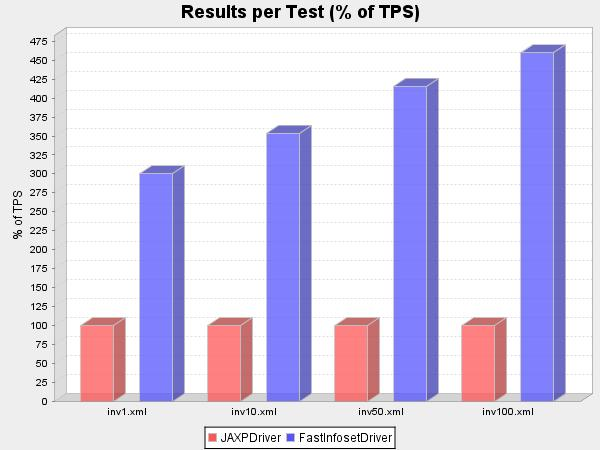
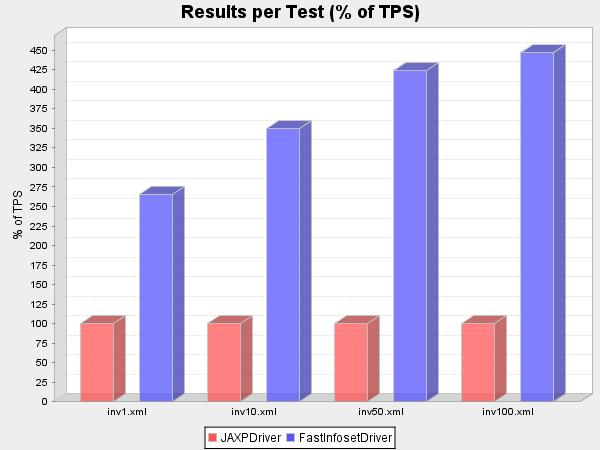
Updated sample.

diff --git a/www/sample/report.html b/www/sample/report.html
@@ -1,4 +1,4 @@
-<?xml version="1.0" encoding="UTF-8"?><html xmlns="http://www.w3.org/1999/xhtml" xmlns:extrep="http://www.sun.com/japex/extendedTestSuiteReport" xmlns:rep="http://www.sun.com/japex/testSuiteReport"><link href="report.css" type="text/css" rel="stylesheet"/><head><h1>Japex Report: ParsingPerformance</h1></head><body><ul><li>chartType: barchart</li><li>classPath: ../../dist/lib/*.jar</li><li>configFile: parsing-config.xml/</li><li>dateTime: 22 Dec 2005/11:01:15 EST</li><li>includeWarmupRun: false</li><li>numberOfThreads: 1</li><li>osArchitecture: x86</li><li>osName: SunOS</li><li>reportsDirectory: reports</li><li>resultAxis: normal</li><li>resultAxisX: normal</li><li>resultUnit: TPS</li><li>resultUnitX: kbs</li><li>runsPerDriver: 1</li><li>runTime: 10</li><li>version: 0.100</li><li>vmInfo: Sun Microsystems Inc. 1.5.0_05-b05</li><li>warmupTime: 10</li></ul><h2>Result Summary 
-    (TPS)</h2><table width="80%" border="1"><thead><tr><th width="15%"><b>driver</b></th><th><b>resultAritMean</b></th><th><b>resultHarmMean</b></th><th><b>resultGeomMean</b></th><th><b>driverClass</b></th><th><b>description</b></th></tr></thead><tbody><tr><td align="right">JAXPDriver</td><td align="right"><nobr>1183.321</nobr></td><td align="right"><nobr>486.336</nobr></td><td align="right"><nobr>756.276</nobr></td><td align="right"><nobr>com.sun.japex.jdsl.xml.parsing.sax.JAXPSAXDriver</nobr></td><td align="left"><nobr>JAXP SAX Parser</nobr></td></tr><tr><td align="right">FastInfosetDriver</td><td align="right"><nobr>3937.683</nobr></td><td align="right"><nobr>2066.038</nobr></td><td align="right"><nobr>2853.818</nobr></td><td align="right"><nobr>com.sun.japex.jdsl.xml.parsing.sax.FastInfosetSAXDriver</nobr></td><td align="left"><nobr>Fast Infoset SAX Parser</nobr></td></tr></tbody></table><br/><br/><center><img src="result.jpg"/></center><br/><br/><h2>Driver: JAXPDriver</h2><table width="80%" border="1"><thead><tr><th><b>testCase</b></th><th><b>resultValue</b></th><th><b>inputFile</b></th></tr></thead><tbody><tr><td align="right">inv1.xml</td><td align="right"><nobr>2740.613</nobr></td><td align="right"><nobr>data/inv1.xml</nobr></td></tr><tr><td align="right">inv10.xml</td><td align="right"><nobr>1372.456</nobr></td><td align="right"><nobr>data/inv10.xml</nobr></td></tr><tr><td align="right">inv50.xml</td><td align="right"><nobr>405.999</nobr></td><td align="right"><nobr>data/inv50.xml</nobr></td></tr><tr><td align="right">inv100.xml</td><td align="right"><nobr>214.215</nobr></td><td align="right"><nobr>data/inv100.xml</nobr></td></tr></tbody></table><h2>Driver: FastInfosetDriver</h2><table width="80%" border="1"><thead><tr><th><b>testCase</b></th><th><b>resultValue</b></th><th><b>inputFile</b></th></tr></thead><tbody><tr><td align="right">inv1.xml</td><td align="right"><nobr>8223.303</nobr></td><td align="right"><nobr>data/inv1.xml</nobr></td></tr><tr><td align="right">inv10.xml</td><td align="right"><nobr>4855.200</nobr></td><td align="right"><nobr>data/inv10.xml</nobr></td></tr><tr><td align="right">inv50.xml</td><td align="right"><nobr>1688.088</nobr></td><td align="right"><nobr>data/inv50.xml</nobr></td></tr><tr><td align="right">inv100.xml</td><td align="right"><nobr>984.140</nobr></td><td align="right"><nobr>data/inv100.xml</nobr></td></tr></tbody></table><br/><br/><center><img src="testcase0.jpg"/></center><br/><br/><br/><small><hr/><i><font size="-2">
-        Author: Santiago Pericas-Geertsen (Sun Microsystems)
-        </font></i></small></body></html>
+<?xml version="1.0" encoding="UTF-8"?><html xmlns="http://www.w3.org/1999/xhtml" xmlns:extrep="http://www.sun.com/japex/extendedTestSuiteReport" xmlns:rep="http://www.sun.com/japex/testSuiteReport"><link href="report.css" type="text/css" rel="stylesheet"/><head><table border="0" cellpadding="2"><tr><td valign="middle" width="90"><p><img src="small_japex.gif" align="middle" border="0"/></p></td><td valign="middle"><h1>Japex Report: ParsingPerformance</h1></td></tr></table></head><body><h2>Global Parameters</h2><ul><li>chartType: barchart</li><li>classPath: ../../dist/jdsl/*.jar</li><li>configFile: speed-config.xml/</li><li>dateTime: 14 Jan 2006/08:11:38 EST</li><li>includeWarmupRun: false</li><li>numberOfThreads: 1</li><li>osArchitecture: x86</li><li>osName: SunOS</li><li>reportsDirectory: reports</li><li>resultAxis: normal</li><li>resultAxisX: normal</li><li>resultUnit: TPS</li><li>resultUnitX: kbs</li><li>runsPerDriver: 1</li><li>runTime: 10</li><li>version: 1.000</li><li>vmInfo: Sun Microsystems Inc. 1.5.0_05-b05</li><li>warmupTime: 10</li></ul><h2>Result Summary 
+    (TPS)</h2><table width="80%" border="1"><thead><tr><th width="15%"><b>driver</b></th><th><b>resultAritMean</b></th><th><b>resultHarmMean</b></th><th><b>resultGeomMean</b></th><th><b>driverClass</b></th></tr></thead><tbody><tr><td align="right">JAXPDriver</td><td align="right"><nobr>2641.792</nobr></td><td align="right"><nobr>955.063</nobr></td><td align="right"><nobr>1565.642</nobr></td><td align="right"><nobr>com.sun.japex.jdsl.xml.parsing.sax.JAXPSAXDriver</nobr></td></tr><tr><td align="right">FastInfosetDriver</td><td align="right"><nobr>8105.481</nobr></td><td align="right"><nobr>4006.797</nobr></td><td align="right"><nobr>5701.701</nobr></td><td align="right"><nobr>com.sun.japex.jdsl.xml.parsing.sax.FastInfosetSAXDriver</nobr></td></tr></tbody></table><br/><br/><center><img src="result.jpg"/></center><br/><br/><h2>Driver: JAXPDriver</h2><p><ul><li>description: JAXP SAX Parser</li></ul></p><table width="80%" border="1"><thead><tr><th><b>testCase</b></th><th><b>resultValue</b></th><th><b>inputFile</b></th></tr></thead><tbody><tr><td align="right">inv1.xml</td><td align="right"><nobr>6564.113</nobr></td><td align="right"><nobr>data/inv1.xml</nobr></td></tr><tr><td align="right">inv10.xml</td><td align="right"><nobr>2800.698</nobr></td><td align="right"><nobr>data/inv10.xml</nobr></td></tr><tr><td align="right">inv50.xml</td><td align="right"><nobr>787.145</nobr></td><td align="right"><nobr>data/inv50.xml</nobr></td></tr><tr><td align="right">inv100.xml</td><td align="right"><nobr>415.215</nobr></td><td align="right"><nobr>data/inv100.xml</nobr></td></tr></tbody></table><br/><h2>Driver: FastInfosetDriver</h2><p><ul><li>description: Fast Infoset SAX Parser</li></ul></p><table width="80%" border="1"><thead><tr><th><b>testCase</b></th><th><b>resultValue</b></th><th><b>inputFile</b></th></tr></thead><tbody><tr><td align="right">inv1.xml</td><td align="right"><nobr>17437.836</nobr></td><td align="right"><nobr>data/inv1.xml</nobr></td></tr><tr><td align="right">inv10.xml</td><td align="right"><nobr>9792.289</nobr></td><td align="right"><nobr>data/inv10.xml</nobr></td></tr><tr><td align="right">inv50.xml</td><td align="right"><nobr>3337.119</nobr></td><td align="right"><nobr>data/inv50.xml</nobr></td></tr><tr><td align="right">inv100.xml</td><td align="right"><nobr>1854.681</nobr></td><td align="right"><nobr>data/inv100.xml</nobr></td></tr></tbody></table><br/><h2>Results Per Test</h2><br/><center><img src="testcase0.jpg"/></center><br/><br/><br/><small><hr/><font size="-2">
+        Generated using <a href="https://japex.dev.java.net">Japex</a> version 
+        1.00</font></small></body></html>
